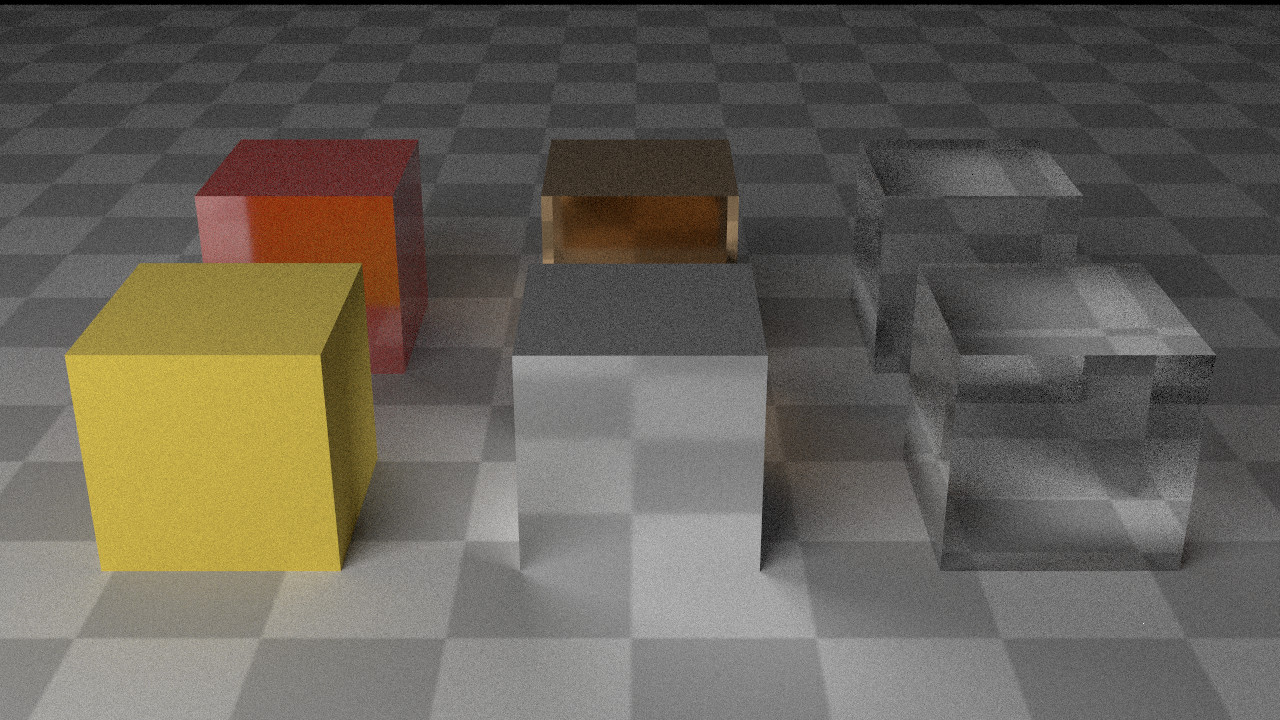
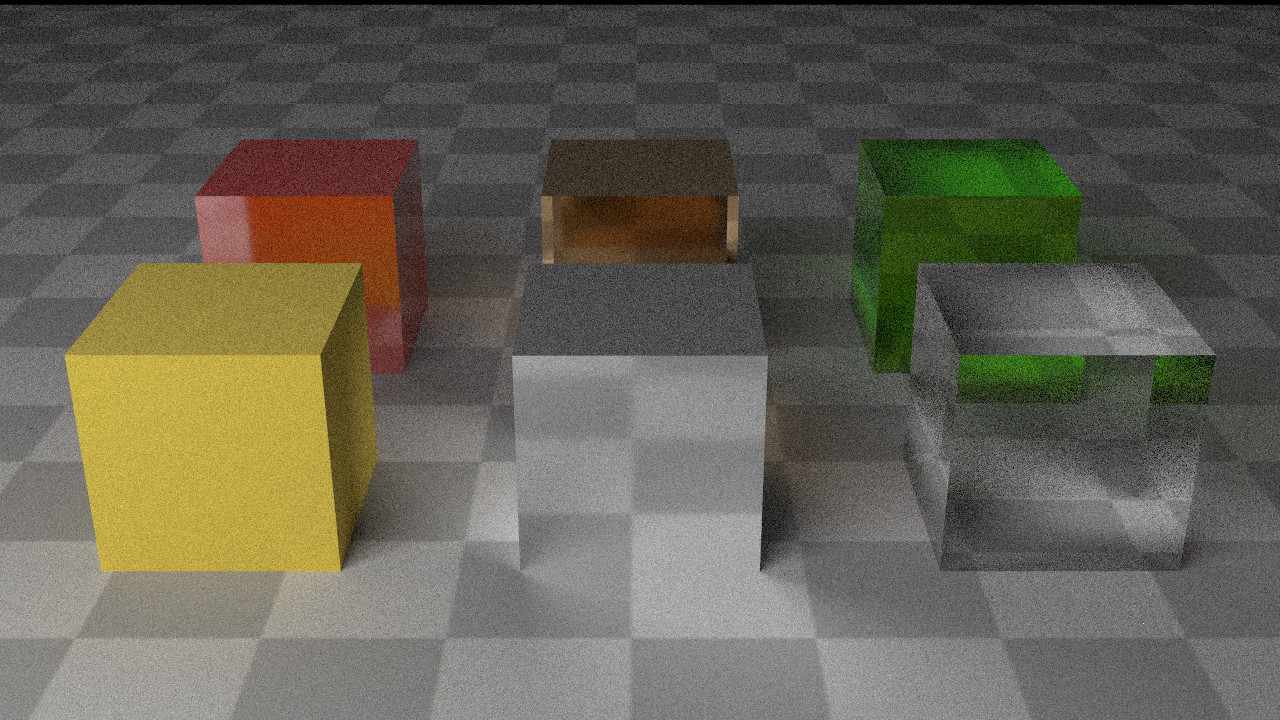
added medium transmittance - gpu version

diff --git a/apps/VulkanPathTracePrototype.cpp b/apps/VulkanPathTracePrototype.cpp
@@ -32,6 +32,7 @@ struct MaterialUniformBufferObject
 {
   alignas(4) Vec3f emission;
   alignas(4) float specular;
+  alignas(4) float anisotropy;
   alignas(4) float transmission;
   alignas(4) float indexOfRefraction;
 };
@@ -223,6 +224,7 @@ public:
       material.emission = scene.getMaterialEmission(materialIdx);
       material.specular = 0.0f;
       material.transmission = 0.0f;
+      material.transmission = 0.0f;
       material.indexOfRefraction = 1.0f;
 
       Image1f constImage1f(1, 1);
@@ -242,6 +244,7 @@ public:
           roughnessImage = getImagePointer<float>(&principledBRDF->getRoughness());
 
           material.specular = principledBRDF->getSpecular();
+          material.anisotropy = principledBRDF->getAnisotropy();
           material.transmission = principledBRDF->getTransmission();
           material.indexOfRefraction = principledBRDF->getIndexOfRefractionMap();
         }

diff --git a/include/Hasty/BRDF.h b/include/Hasty/BRDF.h
@@ -144,6 +144,7 @@ public:
   const ITextureMap1f& getMetallic() const { return *metallic; }
 
   float getSpecular() const { return specular; }
+  float getAnisotropy() const { return anisotropy; }
   float getTransmission() const { return transmission; }
 
   // returns normal in direction of wo
